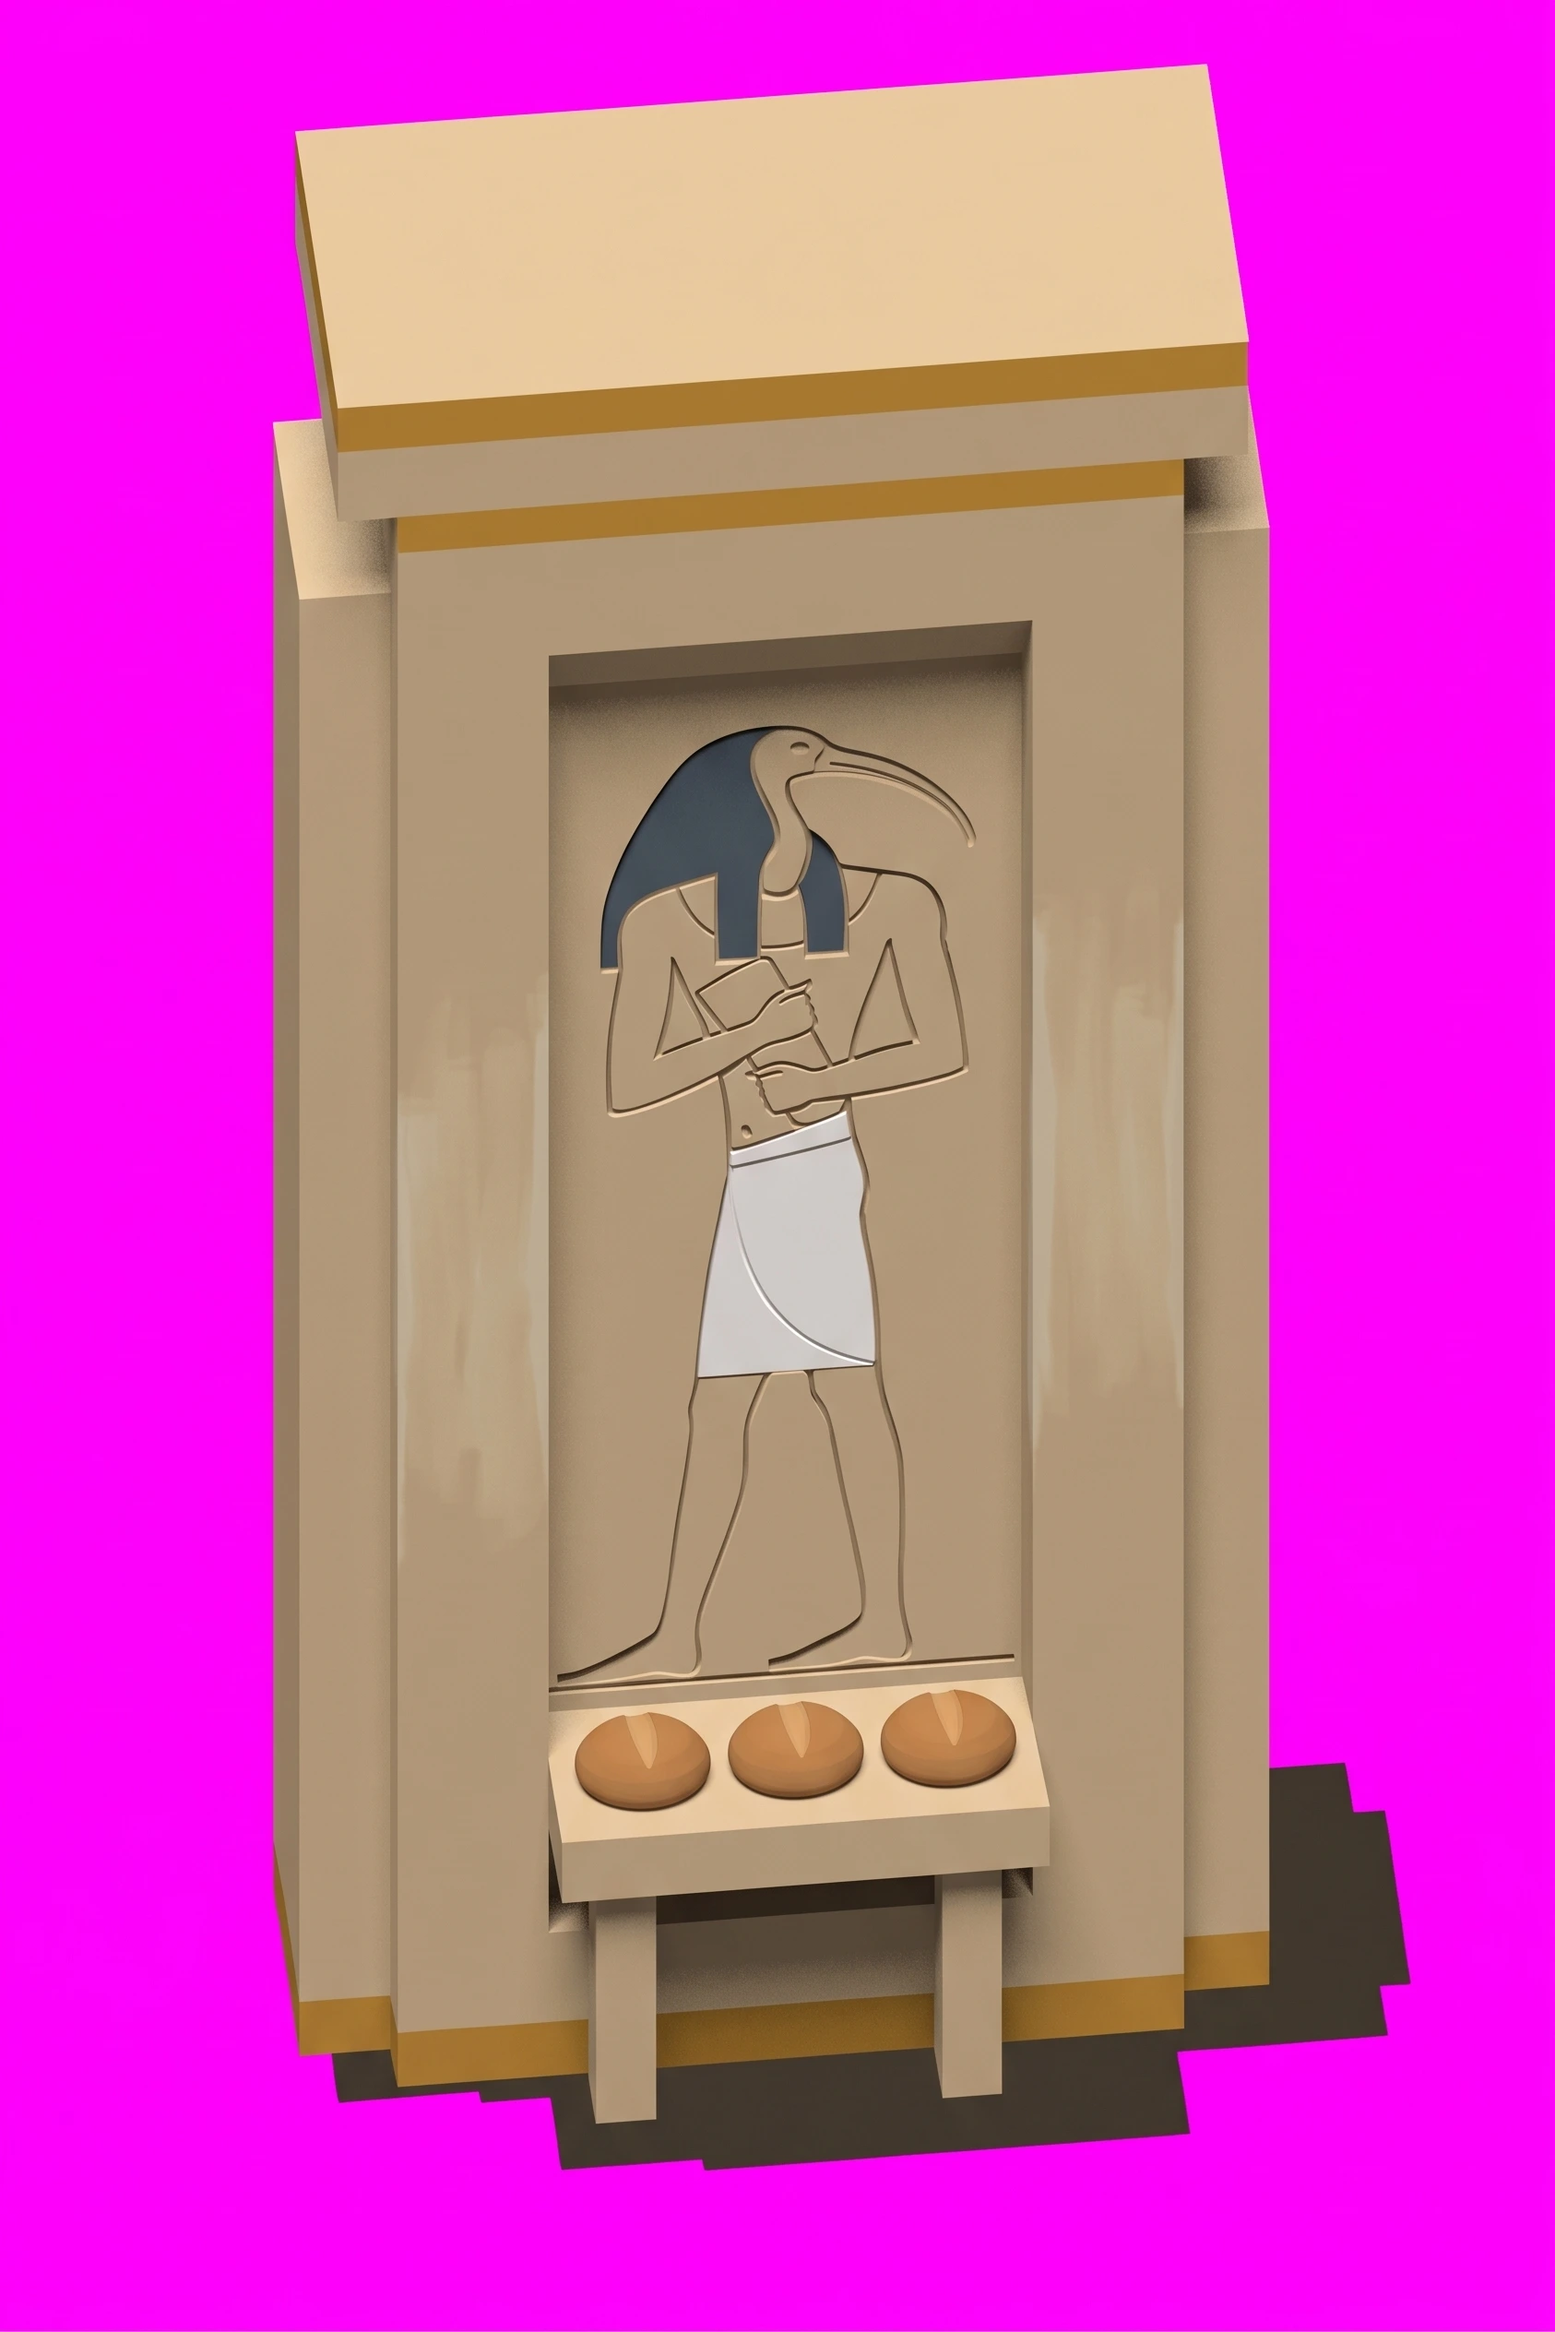
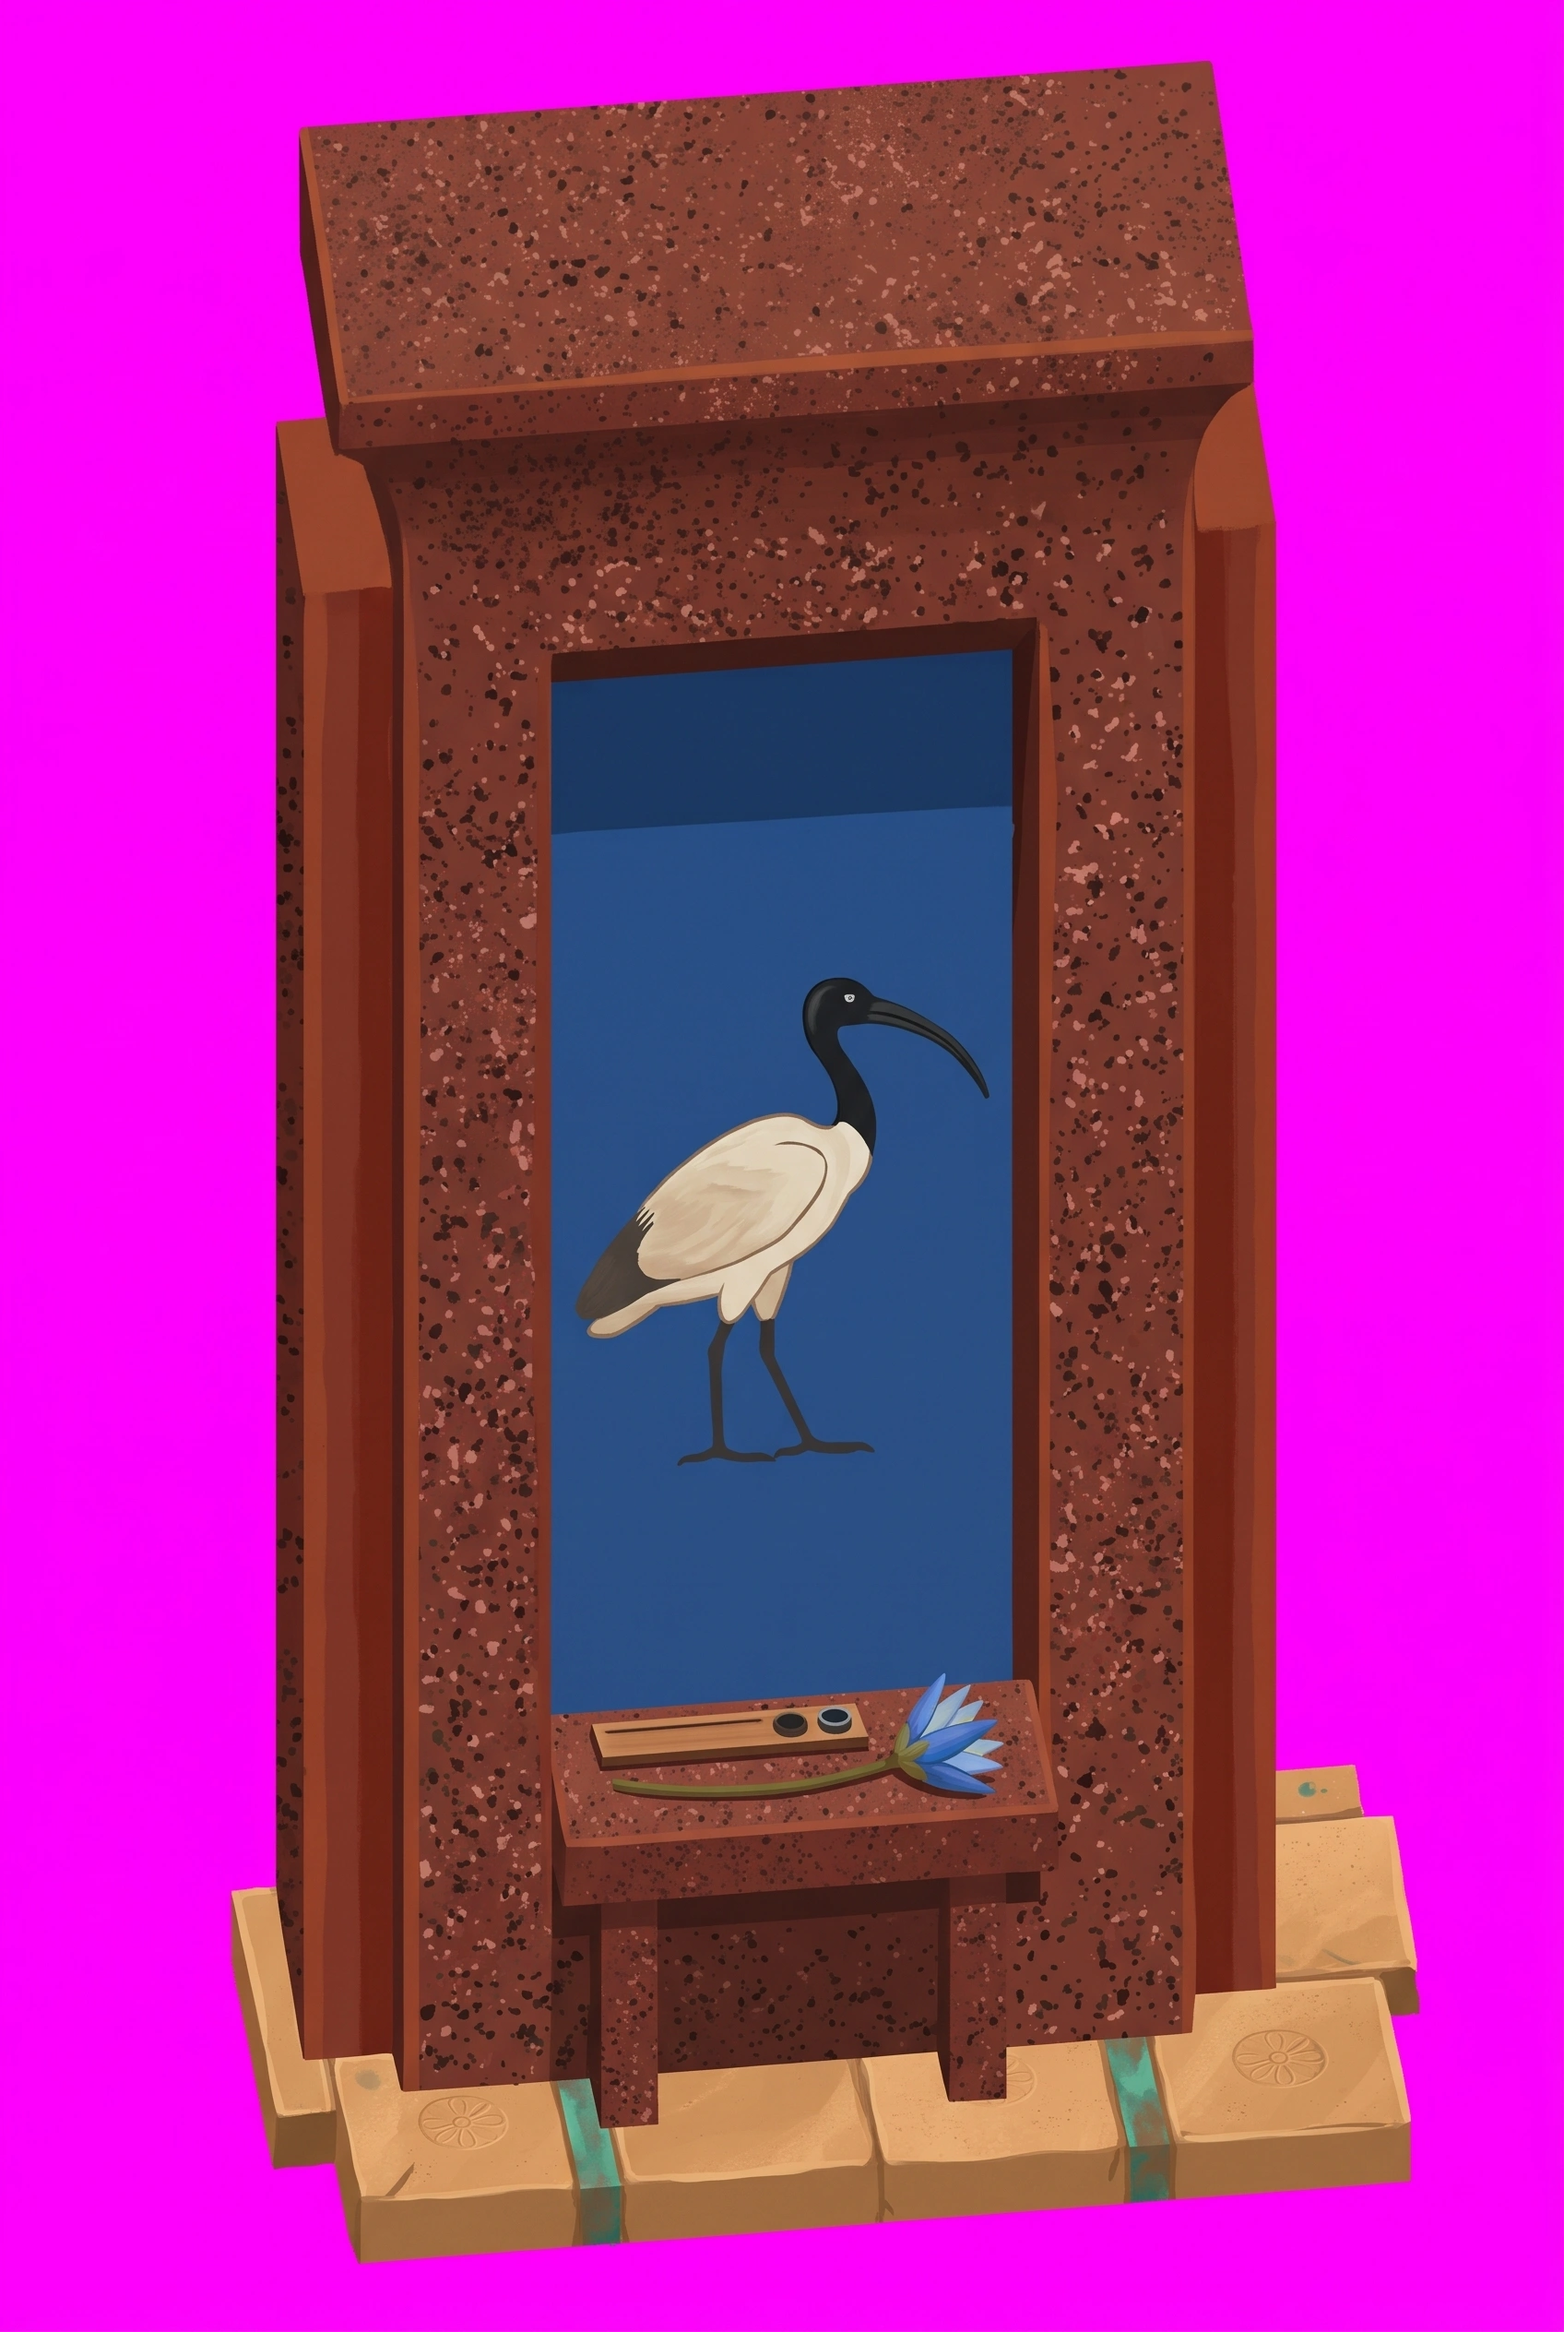
art: junior Thoth false door
Claude-Session: https://claude.ai/code/session_01F6g2diRzQCzQwEf9zsEEGH

diff --git a/docs/instructions/repaint-queue.md b/docs/instructions/repaint-queue.md
@@ -483,7 +483,7 @@ Even lighting left to right, no hotspot, no vignette.
 
 ---
 
-## Nobleman — seventeen
+## Nobleman — sixteen
 
 The nobleman's existing props, repainted for the rank's new light orange floor. Each is its own thing
 first: cedar is cedar, linen is linen, pottery is pottery, painted in red ochre, Egyptian blue and leaf
@@ -506,40 +506,6 @@ The last nine are the house's own kinds, new with its activities ([themed-rooms.
 § Junior): each has a primitive of its own in `renderProp.py` and a guarded block in `art/rebuild.sh`. The
 banquet table and the bed are two cells across, so their frame is landscape three by two; the harp and the
 potted tree stand a cell taller, so theirs is portrait two by five.
-
-### `junior/shrine-thoth` — a false door with Thoth's ibis on its panel
-
-**Re-roll:** the rank's palette moved (2026-11-03, `Topology/Palette moodboard`). Repainted against the new light orange floor, in its own material's colours; copper only as a trim.
-
-**Attach:**
-
-1. `~/tile-previews/shrine-thoth-junior.png` — the scaffold
-2. `~/tile-previews/junior-plain.png` — the material reference
-
-```
-A wall-less product shot of a single object, painted in flat matte gouache, no background, on pure magenta #FF00FF. Portrait, two units wide by three tall, exactly as the reference. Do not re-compose it into a square. Paint over the reference image itself.
-
-The object: a FALSE DOOR with an OFFERING TABLE before it, dedicated to THOTH. The tall slab with its
-recessed frames is the false door; the low slab in front is the table.
-
-The false door is painted to imitate RED GRANITE, as a nobleman's was: a deep red-brown #7a3e30 speckled
-with darker #5a2a20 and paler #a06050 flecks, its frames edged in red ochre #8a3a2a. The recessed panel
-carries Thoth's IBIS painted standing: white body #d8c8a8, black head and neck, a long curved down-swept
-beak, on an Egyptian blue ground #2a5a9a. The table is the same painted granite with a scribe's palette
-and a blue lotus on it.
-
-Keep every edge, every proportion and every silhouette exactly as in the reference image — do not move, resize, straighten, add, remove or restyle any part of it, and do not change the angle it stands at. Paint only material and wear.
-
-No highlights, no gloss, no rim light, no ground plane, no reflections. Matte throughout, evenly lit, crisp and clean. Nobleman's house: orange sandstone, painted plaster, cedar, linen, reed and pottery, each in its OWN colours so it reads at a glance as what it is. Copper is an accent only — a rim, a band, a hasp, gone verdigris green at the edges — never a tint over the whole object.
-```
-
-Then, once the return is in `~/Downloads`:
-
-```sh
-scaffold falseDoor --spin=6 --colour=#7a3e30 --floor=#e2a86f
-yarn import-tile art/masters/props/junior/shrine-thoth.webp --tier=junior --name=shrine-thoth --slot=prop \
-  --filter=smooth --mask="$OBJ" --seat="$SHADOW"
-```
 
 ### `junior/statue-thoth` — Thoth seated, ibis-headed, in dark wood
 
